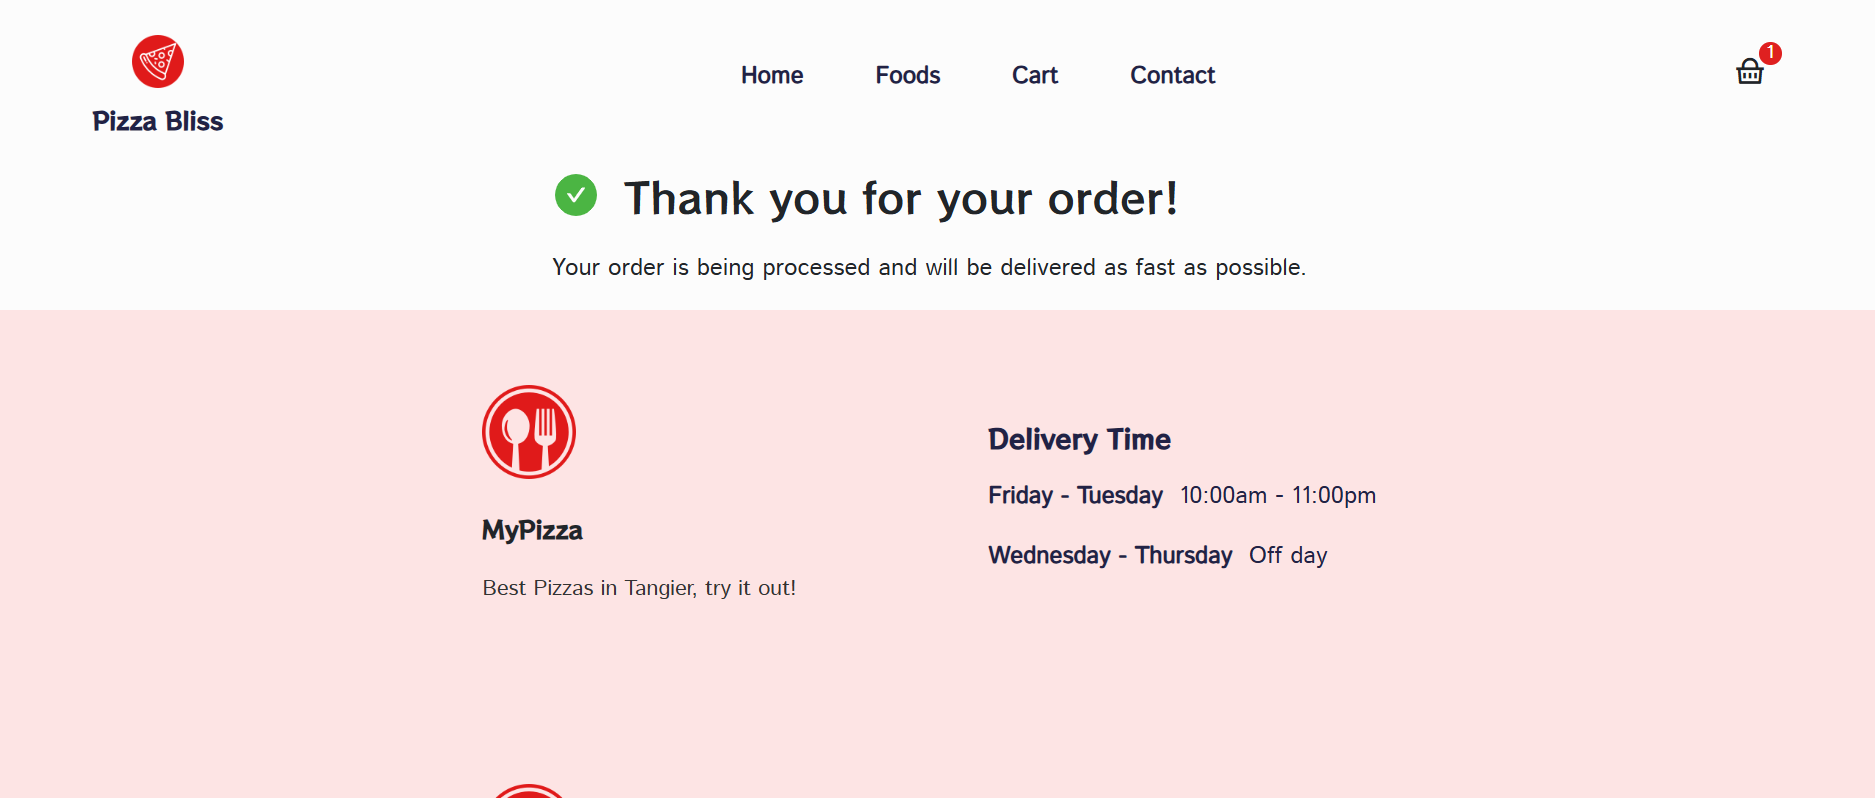
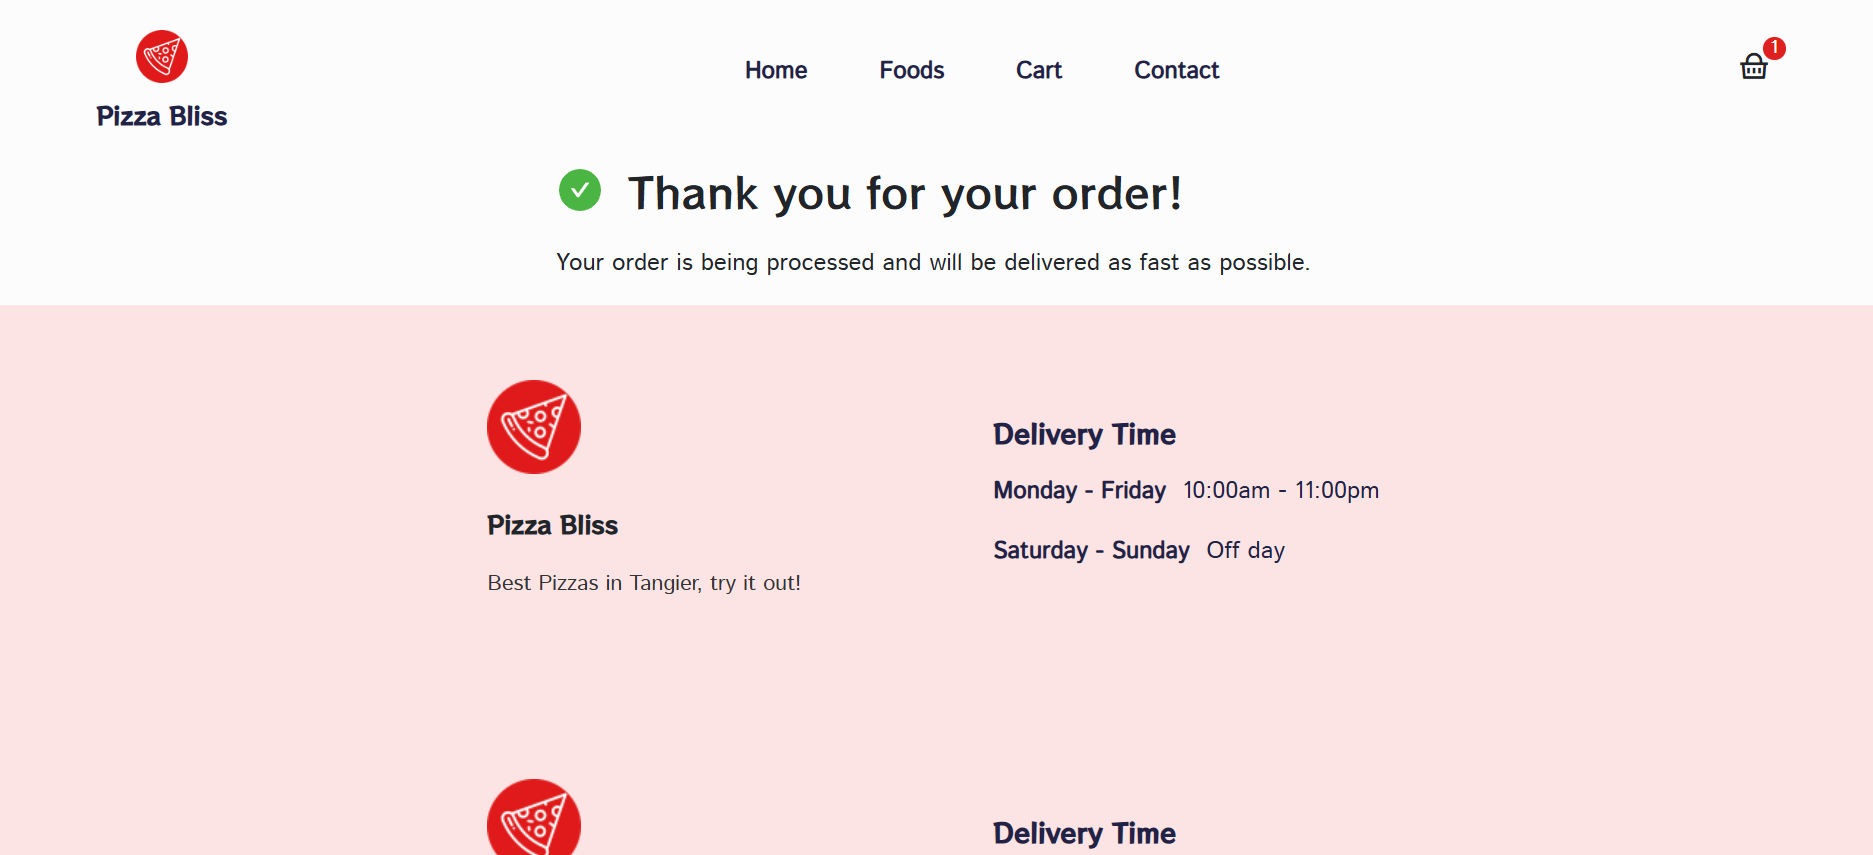
final touches

diff --git a/src/components/Footer/Footer.jsx b/src/components/Footer/Footer.jsx
@@ -1,7 +1,7 @@
 import React from "react";
 import { ListGroup } from "reactstrap";
 
-import logo from "../../assets/images/res-logo.png";
+import logo from "../../assets/images/category-02.png";
 import "../../styles/footer.css";
 
 const Footer = () => {
@@ -9,18 +9,18 @@ const Footer = () => {
     <footer className="footer">
       <div className="footer__logo">
         <img src={logo} alt="logo" />
-        <h5>MyPizza</h5>
+        <h5>Pizza Bliss</h5>
         <p>Best Pizzas in Tangier, try it out!</p>
       </div>
       <div>
         <h5 className="footer__title mb-3">Delivery Time</h5>
         <ListGroup>
           <div className="delivery__time-item border-0 ps-0">
-            <span>Friday - Tuesday</span>
+            <span>Monday - Friday</span>
             <p>10:00am - 11:00pm</p>
           </div>
           <div className="delivery__time-item border-0 ps-0">
-            <span>Wednesday - Thursday</span>
+            <span>Saturday - Sunday</span>
             <p>Off day</p>
           </div>
         </ListGroup>
